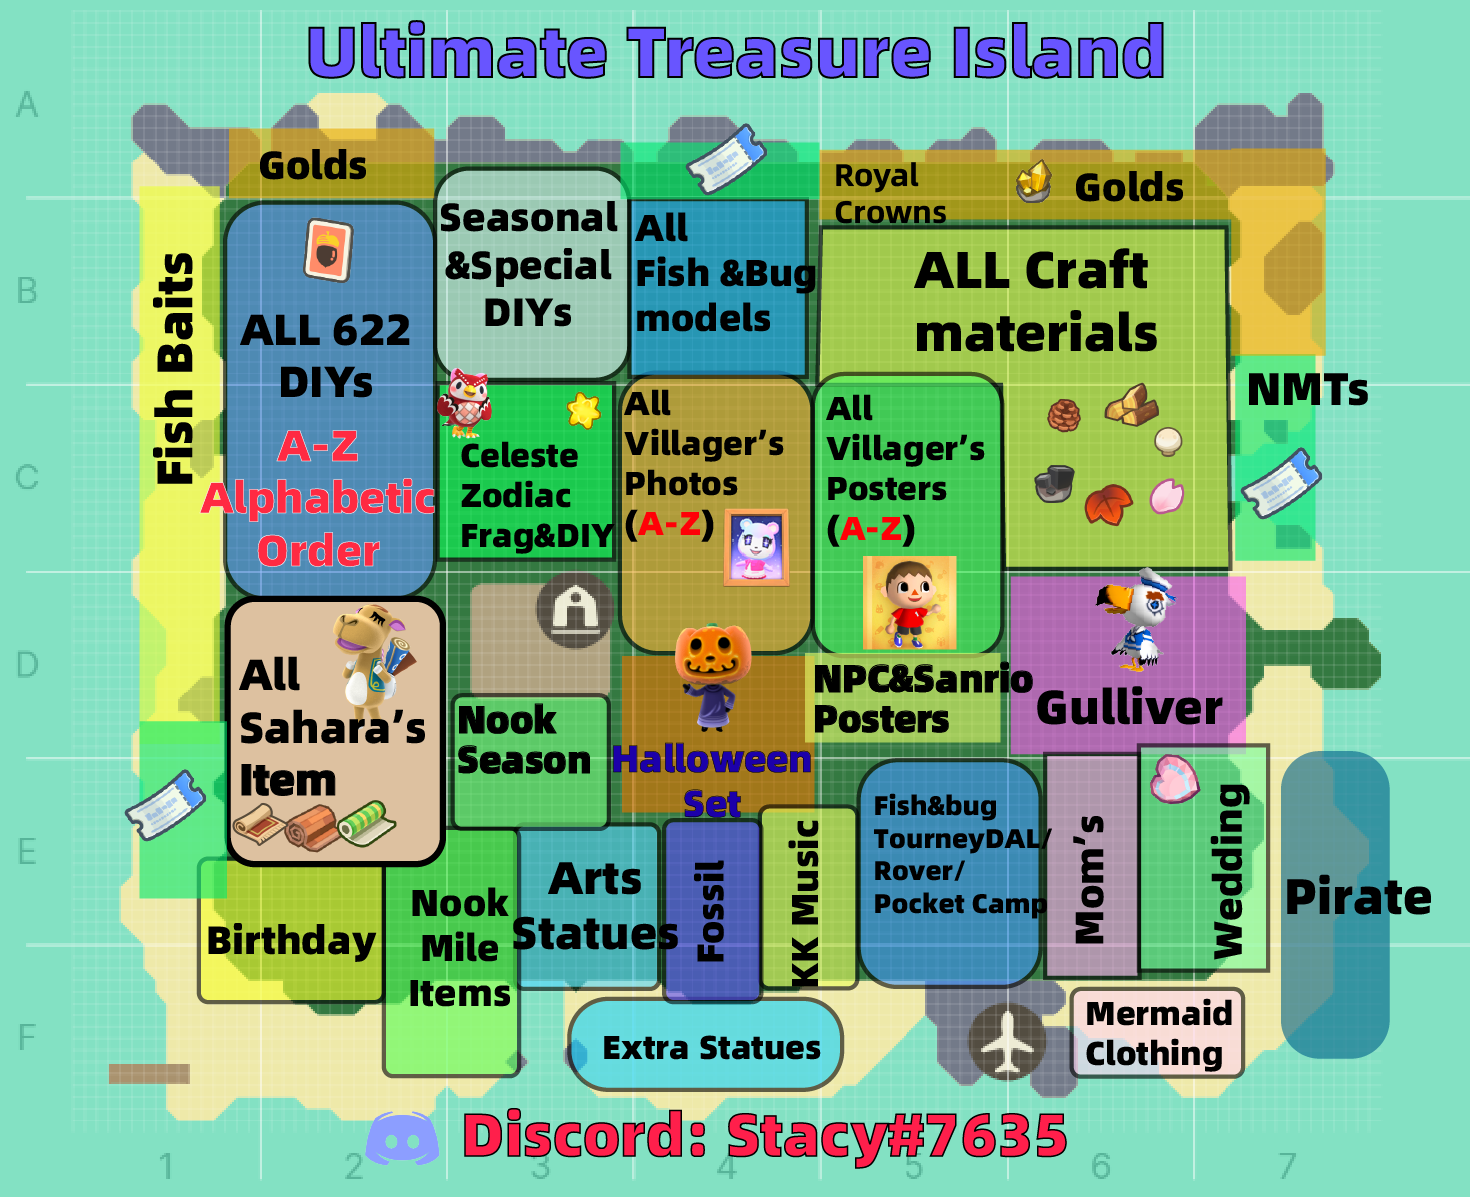
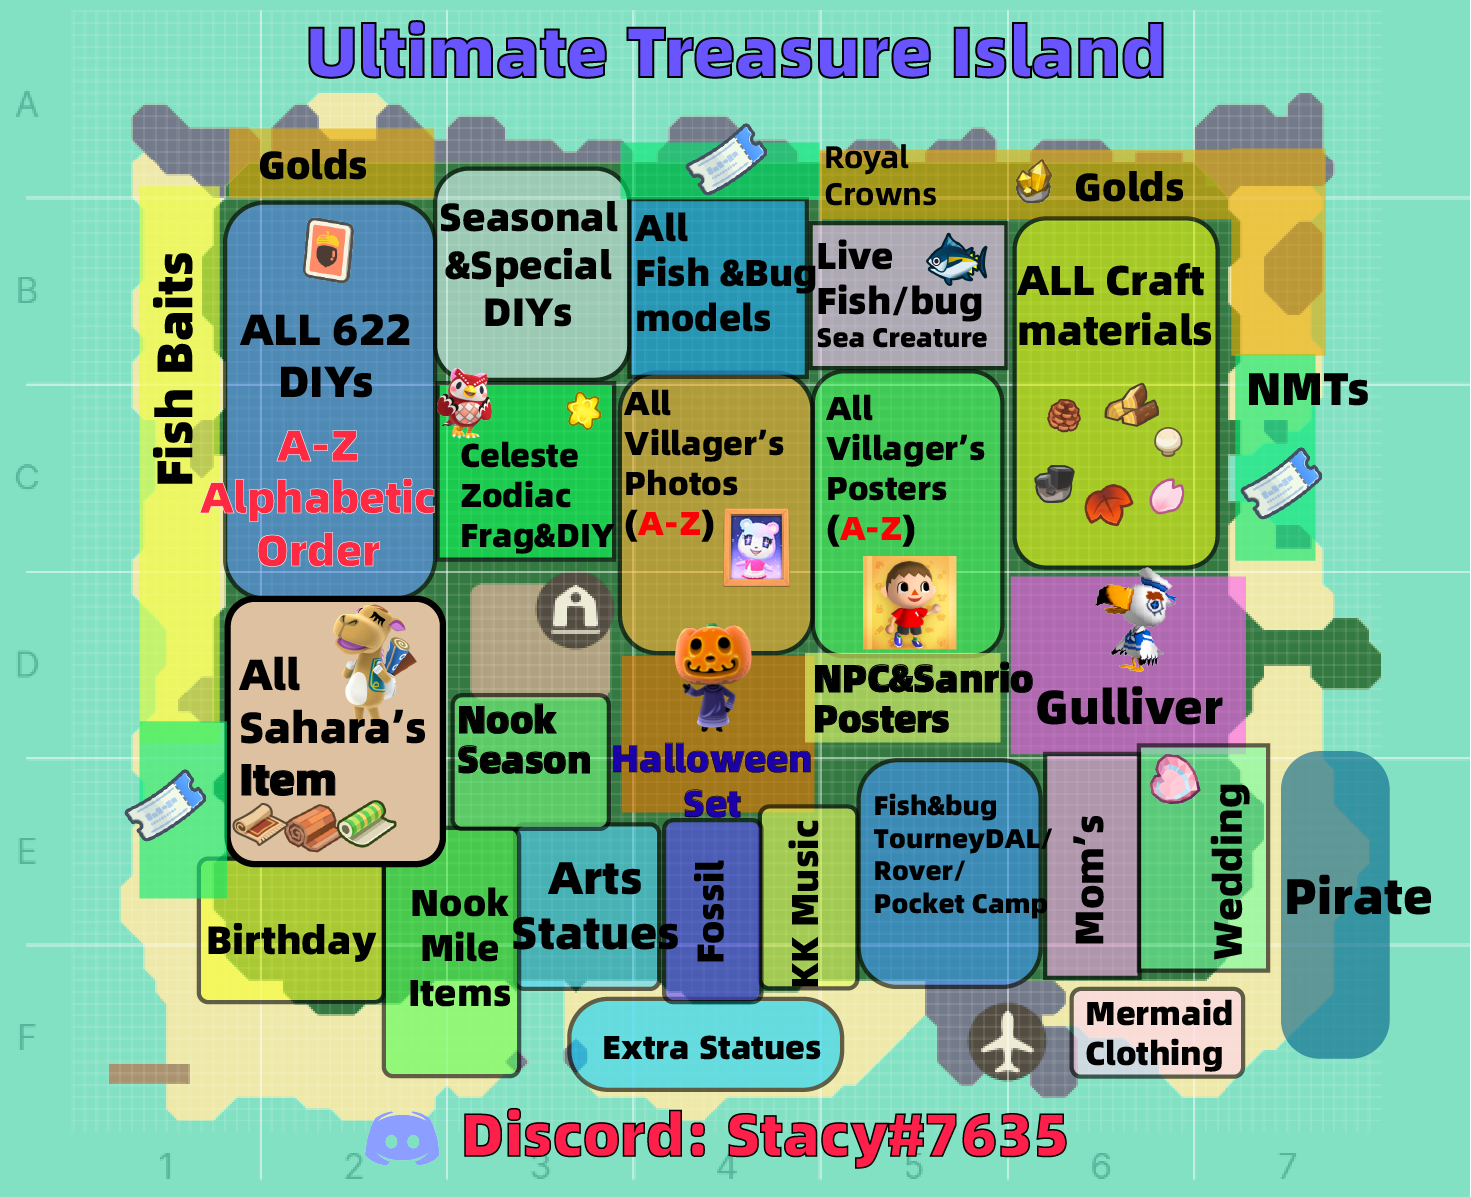
live fish

Changed region(s): [[0.5506, 0.1236, 0.8566, 0.4946]]

diff --git a/GHTI/ti.html b/GHTI/ti.html
@@ -1,5 +1,5 @@
 <!doctype html>
-<html lang="zxx">
+<html lang="en">
 <head>
 </head>
 <body data-new-gr-c-s-loaded="true"><meta charset="utf-8"><meta name="viewport" content="width=device-width, initial-scale=1, shrink-to-fit=no"></body>
@@ -21,10 +21,9 @@
 <div class="container" style="padding: 40px 0 40px 0">
 <div class="col-12 col-md-12">
 <div typeof="Product" vocab="https://schema.org/">
-	
 <p><font face="Arial"><span property="description">	After you placed the order, please contact me for your preferred time to come. (Especially busy on weekends). Of course, anytime you can ask me for next availability, but please note that only paid customer have the priority to take the next time slot, thus availabilities may change anytime. Usually respond quickly, I am in US Eastern Time (New York Time Zone), typically online between 09:00 AM - 01:00 AM EST.</span></font></p>
 
-<p><font face="Arial"><span property="description">	Although I usually set your departure time as the starting time, kindly ask everyone to come quickly when you got the Dodo code and leave on time. Otherwise, there are basically no rules. Just feel free to loot anything during your time slot. You can take/drop anything, leaving the island the way you like and don't worry about messing things up. This service is intent for one player only, as multiple people may cause unstable Internet connection or other issues. </span></font></p>
+<p><font face="Arial"><span property="description">	Although I usually set your departure time as the starting time, kindly ask everyone to come quickly when you got the Dodo code and leave on time. Otherwise, there are basically no rules. Just feel free to loot anything during your time slot. You can take/drop anything, leaving the island the way you like and don't worry about messing things up. This service is intended for one player only, as multiple people may cause unstable Internet connection or other issues. </span></font></p>
 
 <p><font face="Arial" style="color: #353535"><span property="description">
 	If you are interested in something other than those listed in this island（detailed explainations are below in next section), be sure to check my other listings as well.
@@ -32,60 +31,12 @@
 </div>
 </div>
 
-<div class="col-12 col-md-12">
 
-	<title>W3slideshow.CSS</title>
-	<meta name="viewport" content="width=device-width, initial-scale=1">
-	<link rel="stylesheet" href="https://www.w3schools.com/w3css/4/w3.css">
-	<style>
-	.mySlides {display:none;}
-	</style>
-	<body>
-	
-	<h2 class="w3-center">Photos</h2>
-	
-	<div class="w3-content w3-display-container">
-	  <img class="mySlides" src="/GHTI/image/map.png" style="width:100%">
-	  <img class="mySlides" src="/GHTI/image/gul.jpg" style="width:100%">
-	  <img class="mySlides" src="/GHTI/image/mat.jpg" style="width:100%">
-	  <img class="mySlides" src="/GHTI/image/diy.jpg" style="width:100%">
-	  <img class="mySlides" src="/GHTI/image/tourney.jpg" style="width:100%">
-	  <img class="mySlides" src="/GHTI/image/celeste.jpg" style="width:100%">
-	  <img class="mySlides" src="/GHTI/image/nookseason.jpg" style="width:100%">
-	  <img class="mySlides" src="/GHTI/image/pirate.jpg" style="width:100%">
-	  <img class="mySlides" src="/GHTI/image/10V.png" style="width:50%">
-	
-	  <button class="w3-button w3-black w3-display-left" onclick="plusDivs(-1)">&#10094;</button>
-	  <button class="w3-button w3-black w3-display-right" onclick="plusDivs(1)">&#10095;</button>
-	</div>
-	
-	<script>
-	var slideIndex = 1;
-	showDivs(slideIndex);
-	
-	function plusDivs(n) {
-	  showDivs(slideIndex += n);
-	}
-	
-	function showDivs(n) {
-	  var i;
-	  var x = document.getElementsByClassName("mySlides");
-	  if (n > x.length) {slideIndex = 1}
-	  if (n < 1) {slideIndex = x.length}
-	  for (i = 0; i < x.length; i++) {
-		x[i].style.display = "none";  
-	  }
-	  x[slideIndex-1].style.display = "block";  
-	}
-	</script>
-	</body>
 
-</div>
 
+<div class="col-12 col-md-12"><font face="Arial"><img alt="Image" class="mx-auto d-block img-fluid" src="https://i.ebayimg.com/images/g/iO4AAOSwCiVfjvH1/s-l1600.png" style="padding-top: 30px; padding-bottom: 40px; width: 70%" title="animal crossing raymond" /></font></div>
 </div>
 </div>
-
-
 
 <div style="background: #F4F6F7; border-left: 1px solid #F4F6F7; border-right: 1px solid #F4F6F7; color: #273C2C; line-height: 25px">
 <div class="container" style="padding: 40px 0 40px 0">
@@ -93,10 +44,14 @@
 <h2 style="line-height: 45px; color: #35C88A"><font face="Arial">Features and Further details</font></h2>
 
 <hr align="left" style="background: #35C88A; height: 1px; width: 10%" />
-<p><font face="Arial">	Includes all 622 diy recipes(in A-Z <b>Alphabetical Order</b> ), Extra Section of seasonal DIY recipes, ALL craft materials, Sahara 's set, complete villagers' photos (Alphabetic order), all NPC and Sanrio posters, nook miles furniture, golds, Gullivers, All real arts, fish and bug models, wedding(Harv) set, mermaid set, pirate set, mom's set , birthday set, DAL rewards, NMTs, etc...Check the map, all you can pick! Most items are rare items which you cannot buy from store nor nook shopping (marked Not for Sale in your catalog). Always have many extras for hot items. </font></p>
+<p><font face="Arial">	Includes all 624 diy recipes(in A-Z <b>Alphabetical Order</b> ), Extra Section of seasonal DIY recipes, Live Fish/bug/sea creasures for museum, ALL craft materials, Sahara 's set, complete villagers' photos (Alphabetic order), all posters(viillagers/amiibo posters), nook miles furniture, golds, Gullivers, All real arts, fish and bug models, wedding(Harv) set, mermaid set, pirate set, mom's set , birthday set, DAL rewards, NMTs, etc...Check the map, all you can pick! Most items are rare items which you cannot buy from store nor nook shopping (marked Not for Sale in your catalog). Always have many extras for hot items. </font></p>
 
 <ul style="color: #273C2C; line-height: 25px; font-size: 16px; margin-top: 30px">
 	<li><font face="Arial" style="color: #353535"><b>All DIY Section:</b>All 622 DIY recipes are in Alphabetical order, but Bunny Day and Zoadiac DIYs are at the bottom(The recipes of Jingle Wall, DIY workbench and King Tut mask are at the bottom, too)(P.S. Campsite Construction Kit and Bridge Construction Kit DIY recipes are not inclued as they are not valid DIYs in the game)
+
+	</font></li>
+	
+	<li><font face="Arial" style="color: #353535"><i>NEW Updated </i><b>Live Fish/Bug/Sea Creature:</b> Includes all museum creatures, such as Golden trout, Barreleye, Coelacanth... You can pick up those creatures on my island, once you picked up, they become regular fish/bug/sea creasture in your pocket just like you catcheded them. They can't be dropped in my island but you can place them in your own island or donate to museum.
 
 	</font></li>
 
@@ -122,7 +77,7 @@
 	 </font></li>
 	 <li><font face="Arial" style="color: #353535"><b>All Villagers' photos:</b> All 391 Villagers framed photos in Alphabetical order. (Villager photos are given by high friendship villagers at a certain chance)
 	 </font></li>
-	 <li><font face="Arial" style="color: #353535"><b>NPC & Sanrio Posters:</b> Those posters were catalog-able in the past, but now it has been patched. You have to use Amiibo in Harv's island to have the ability to buy NPC posters.
+	 <li><font face="Arial" style="color: #353535"><b>All posters:</b> Includes all villagers posters in alphabetical orders and NPC/Sanrio amiibo posters. Those posters were catalog-able in the past, but now it has been patched. You have to invite your villagers or use NPC Amiibos in Harv's island to have the ability to buy posters.
 	 </font></li>
 	 <li><font face="Arial" style="color: #353535"><b>The section just next to the airport:</b> Includes Fish and bug-off toruney prizes, DAL rewards, Mayday's Rover's suitcase, and Pocket Camp furniture
 	 </font></li>
@@ -166,9 +121,9 @@
     
     </div>
     
-    <div class="col-12 col-md-12" style="background: #FDFEFE; color: #D3CED6;line-height: 25px">
+    <div class="col-12 col-md-12" style="background: #FDFEFE; color: #D3CED6;li ne-height: 25px">
     <div class="container" style="border-top: 1px solid #CBD4C2; padding: 20px 0 20px 0; font-size: 80%; text-align: center">
-    <p><font face="Arial" style="color: #353535">Check my eBay Store Page: ebay.com/str/nookland</font></p>
+    <p><font face="Arial" style="color: #353535">Check my eBay Store Page: <a href="https://www.ebay.com/str/nookland" target="_blank">ebay.com/str/nookland</a></font></p>
 
 </div>
 </div>
